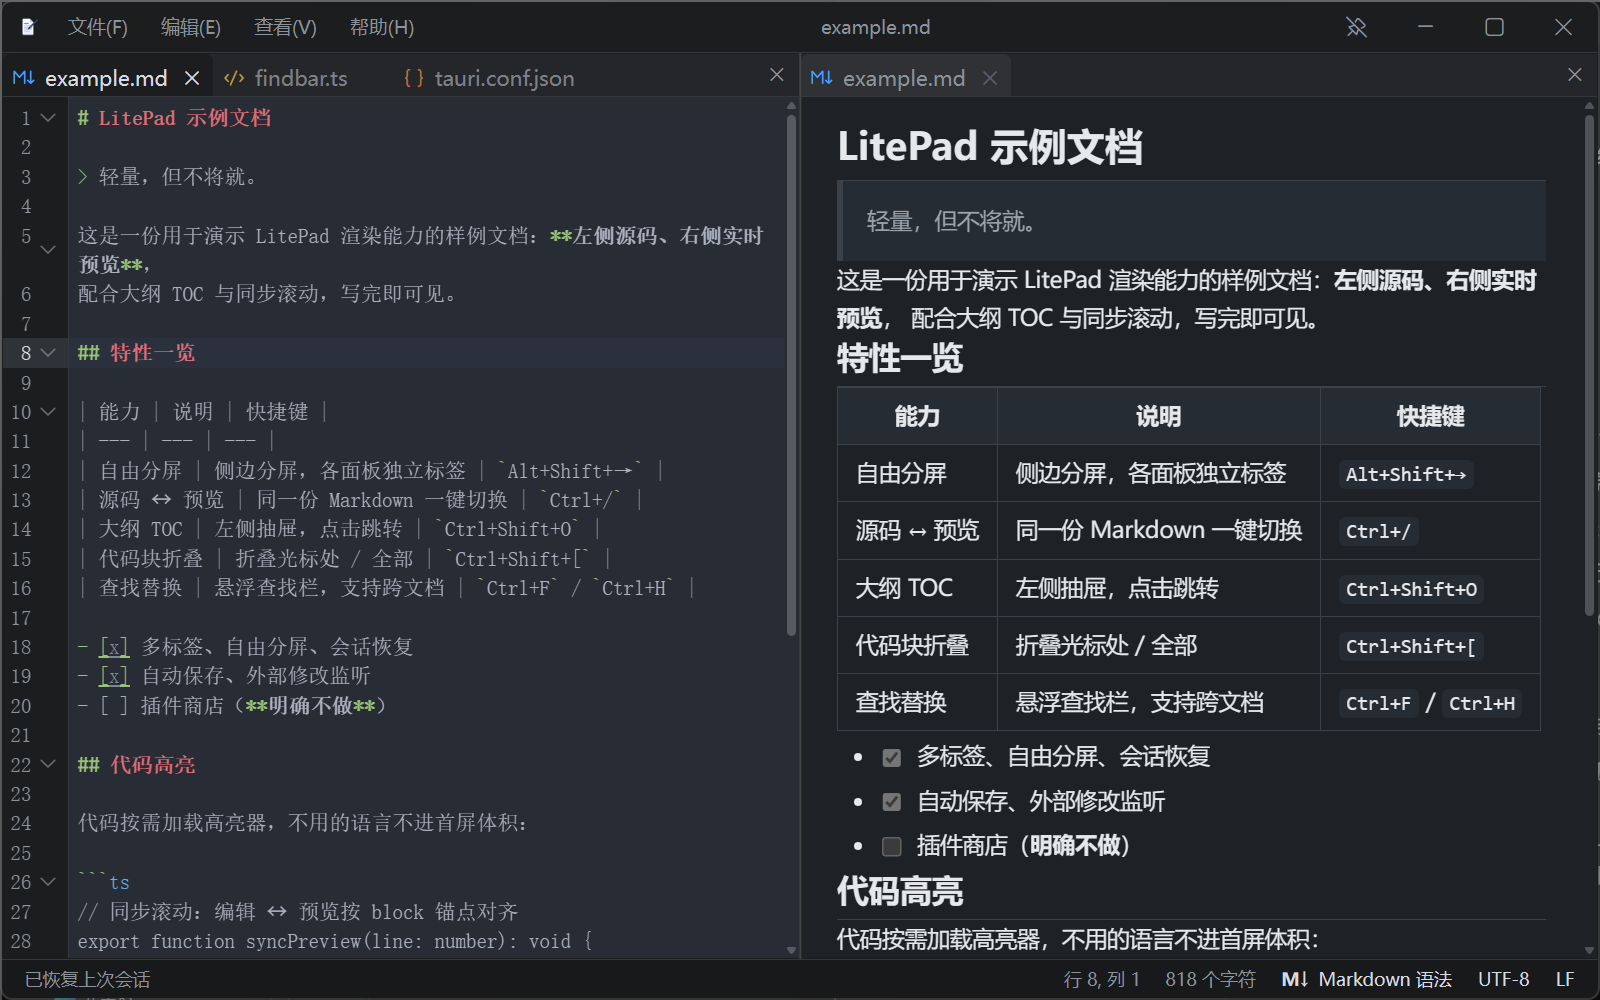
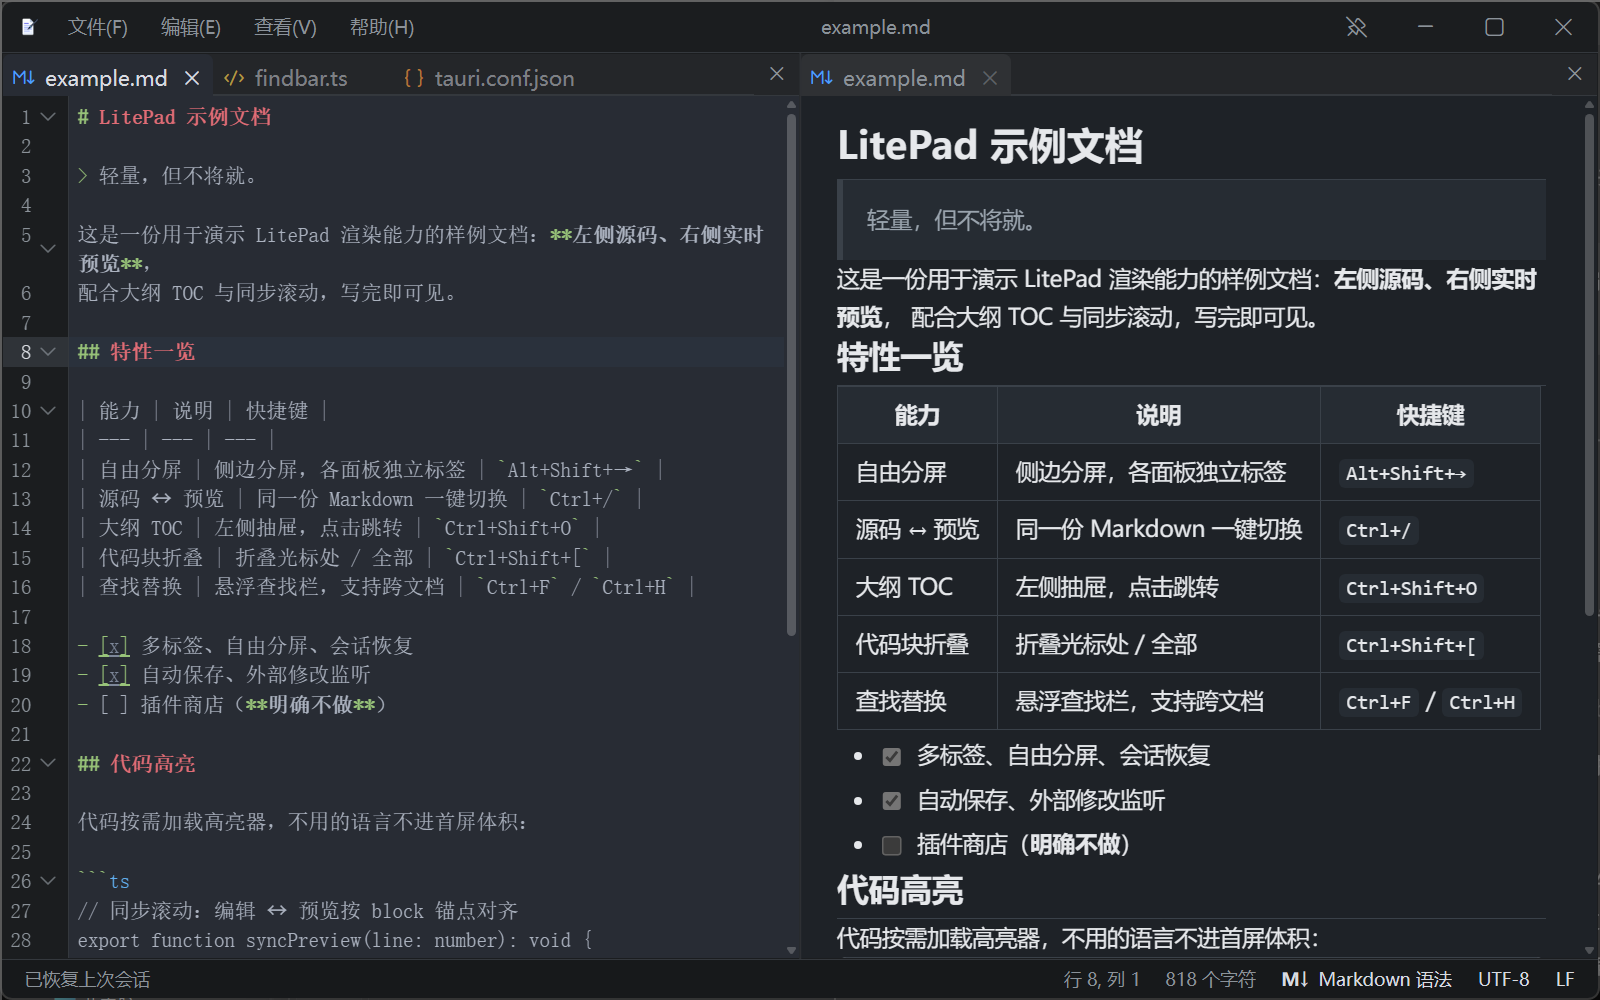
feat(tab): 活动标签与编辑区融为一体，头部细线移入条带、分割线降对比（B121）
- 用户裁决（学习 VS Code 标签/编辑区配色）：活动标签 = 编辑器底色
  （深色 oneDark #282c34，浅色 var(--bg)），且活动标签下方无边框
- 头部细线从 .panel-head 的 border-bottom 移到 .panel-tabstrip 的背景
  渐变（底色 + calc(100%-1px) 处 1px var(--border)）：舌片（子元素）画
  在宿主背景之上，走过后细线自动消失；background-attachment 默认
  scroll，横向滚动时细线固定在可见盒不跟内容跑；.panel-ops 用自身
  border-bottom 补齐右半段；head 高度随之 -1px（细线进入 28px 条带内部）
- 分屏分割线 --sep-line 深色 #444444→#2e3034：1px CSS 在 150% 缩放下
  被抗锯齿糊成 ~2-3 物理像素的粗线是对比度问题，降对比对齐 VS Code
  editorGroup.border 的低调观感（拖拽悬停高亮不受影响，B59）
- 测试：strip 渐变细线契约、head 无 border-bottom、ops border 补齐、
  深色 #282c34、#2e3034；B113-4 替身锚点随 head 去 border 更新

diff --git a/src/styles/global.css b/src/styles/global.css
@@ -25,25 +25,26 @@
   --danger: #f47067;
   --warn: #e2b341;
   /* 标签（B113 起对齐 VS Code 1.139 的 **Connected 相连标签**，不再是独立药丸）：
-     标签条是一条**连续的表面**，活动标签是这条表面上的一块「凹槽」高亮
-     （B120：比条带暗一档，对齐用户 VS Code 的实拍观感），非活动标签透明。
+     标签条是一条**连续的表面**，活动标签取**编辑器底色**、与下方编辑区融为一体
+     （B121 最终形态：舌片同色 + 舌片下方无分割线），非活动标签透明。
      依据 `workbench/contrib/modernUI/browser/media/connectedEditorTabs.css`：
        · 活动标签底色引用编辑器背景（VS Code 语义）；LitePad 取舍见下一条注释
        · --modern-ui-connected-tab-strip-background = editorGroupHeader.tabsBackground
      条带取深 #242629 / 浅 #F3F3F3 那一档。 */
   --tab-strip-bg: #242629;
-  /* 非活动标签：透明（露出条带）；hover 只比条带抬一点点；活动 = 深色凹槽。
+  /* 非活动标签：透明（露出条带）；hover 只比条带抬一点点；活动 = 编辑器底色。
      ⚠ 三档必须拉开可感知的差距 —— hover 若与 active 同色就分不出「选中」和「划过」。
      B119：hover 改用 VS Code connected 的口径（connectedEditorTabs.css:77）
      color-mix(fg 6%, 条带色)——与旧写法 rgba(255,255,255,.05) 观感几乎一致，
      但「混底色」比「叠半透明」确定性强（不依赖下面垫的是什么）。
-     B120（用户裁决）：活动标签要「深色凹槽」观感（同用户 VS Code 的实拍：
-     舌片比条带暗一档、内嵌在条带里）。按 VS Code 的规则「活动=编辑器底色」
-     本应取 oneDark 的 #282c34，但它比条带亮（凸舌观感），与用户要的相反 ——
-     故深色取 --bg（#1b1d1f，比条带暗），浅色仍 var(--bg)（纯白，浅色下无
-     凹槽可挖，白舌片是 B55 以来的观感且用户未提异议）。 */
+     B121（用户裁决，最终形态）：「标签激活时标签和编辑区颜色融为一体」——
+     深色活动标签取 oneDark 的 **#282c34**（editor.ts 挂 oneDark，内容区实际
+     底色就是它），舌片与编辑区同色连成一体；配合条带底部细线被舌片覆盖
+     （见 .panel-tabstrip 的 B121 注释），活动标签下方不再有边框。
+     （B120 曾按用户「深色凹槽」裁决取 var(--bg)，看到融合效果后定为 B121。）
+     浅色下编辑器无 oneDark，底色即 var(--bg) 纯白，同样融为一体。 */
   --tab-bg-hover: color-mix(in srgb, var(--fg) 6%, var(--tab-strip-bg));
-  --tab-bg-active: var(--bg);
+  --tab-bg-active: #282c34;
   --tab-bg-active-hover: #343940;
   /* 标签文件类型图标的家族配色（B57）：十个家族各一色。
      同一族内用同一个色相（形状负责细分），浅深两套取各自的中调，
@@ -104,7 +105,11 @@
   /* 分隔条线色（B59，S5）：从通用 --border 里抽出来单独可调（分屏 .layout-sep 与
      大纲 .toc-resizer 共用，B28 要求两者同款）。深色取 VS Code editorGroup.border
      的 #444444 档 —— 比通用边框略清晰，分屏边界更明确。 */
-  --sep-line: #444444;
+  /* B121：#444444 → #2e3034。宽度本就是 1px CSS，但 150% 缩放下高对比色会被
+     抗锯齿糊成 ~2-3 物理像素的「粗线」；降对比后与两侧面板底色（#282c34 /
+     #1e2227）只差一档，观感对齐 VS Code editorGroup.border（#2b2b2b，几乎
+     隐形，拖拽悬停时另有高亮，B59）。 */
+  --sep-line: #2e3034;
   /* 拖拽落点高亮的填充色（B60 回退为**浅蓝**）：B59 照搬 VS Code 的
      editorGroup.dropBackground（深灰 @0.5 / 浅蓝 @0.18），实测在 LitePad 上落点
      边界几乎看不出来，用户明确要求换回 B59 之前的浅蓝。取 accent @0.22 —— 填充与
@@ -543,9 +548,9 @@ button:focus-visible {
   background: var(--tab-bg-hover);
 }
 
-/* 活动标签：fill 抬到凹槽底色（--tab-bg-active，深浅两套主题都取 var(--bg)，
-   深色下比条带暗一档 = 「深色凹槽」，见主题变量处的 B120 注释），
-   无边框、只有上方两角圆、侧边直线落到条带底。 */
+/* 活动标签：fill 抬到**编辑器底色**（--tab-bg-active：深色 = oneDark 的
+   #282c34，浅色 = var(--bg) 纯白 —— 都与下方编辑区同色），无边框、
+   只有上方两角圆、侧边直线落到条带底。 */
 .tab-active {
   color: var(--fg);
 }
@@ -560,7 +565,7 @@ button:focus-visible {
   initial-value: #0000;
 }
 
-/* B116 去描边 + B120 去肩部：活动标签只靠底色区分 —— fill 取深色凹槽底色、
+/* B116 去描边 + B120 去肩部：活动标签只靠底色区分 —— fill 取编辑器底色、
    只有上方两角圆、侧边直线落到条带底（对齐用户 VS Code 的实拍形态）。 */
 .tab-active .tab-fill {
   --tab-fill-bg: var(--tab-bg-active);
@@ -2230,7 +2235,10 @@ button:focus-visible {
      透出的还是这层旧色 —— 结果「标签条一条色、关闭按钮区另一条色」。
      头部整体跟随条带色，ops 不必再单独声明，将来加邻居也不会再错开。 */
   background: var(--tab-strip-bg);
-  border-bottom: 1px solid var(--border);
+  /* B121：border-bottom 移除 —— 头部与编辑区之间的细线改画进 .panel-tabstrip
+     的背景（见该处 B121 注释）：border 在条带盒外，被 overflow 裁掉的舌片
+     够不着它，「活动标签下方无边框」做不出来；画在条带内部就能被舌片盖住。
+     ops 段没有标签，用自身 border-bottom 补齐同一根线（见 .panel-ops）。 */
 }
 
 .panel-tabstrip {
@@ -2248,8 +2256,17 @@ button:focus-visible {
      右侧 4px 保留给滚动条与末标签的呼吸。 */
   padding: 4px 4px 0 0;
   /* 标签条**表面色**（VS Code 的 editorGroupHeader.tabsBackground）：比编辑器背景差一档，
-     活动标签则取编辑器背景色（见 .tab-active .tab-fill）——「哪块与编辑器连着」一眼可辨。 */
-  background: var(--tab-strip-bg);
+     活动标签则取编辑器背景色（见 .tab-active .tab-fill）——「哪块与编辑器连着」一眼可辨。
+     B121：头尾之间的 1px 分割细线从 .panel-head 的 border-bottom 改为**背景渐变**
+     画在条带自己的最底部 —— ① 舌片（子元素）天然画在宿主背景之上，走过后细线
+     自动消失，「活动标签下方无边框、与编辑区融为一体」；② background-attachment
+     默认 scroll = 固定在条带可见盒上，横向滚动时细线不会跟着内容跑掉；③ 只有
+     gradient 一层，比 ::after 伪元素少一层层叠纠纷。 */
+  background: linear-gradient(
+    to bottom,
+    var(--tab-strip-bg) calc(100% - 1px),
+    var(--border) calc(100% - 1px)
+  );
   min-width: 0;
   /* 拖拽 tab 的插入指示线（.tab-insert）以 strip 为定位基准 */
   position: relative;
@@ -2334,6 +2351,10 @@ button:focus-visible {
   padding: 0 4px;
   /* 不被标签栏挤扁：标签栏滚动，操作按钮恒定可见 */
   flex: 0 0 auto;
+  /* B121：头部细线的 ops 段 —— 条带那半段画在 .panel-tabstrip 背景里
+     （会被舌片盖住），ops 段没有标签、用自身 border-bottom 补齐同一根线。
+     align-items: stretch 下 ops 与条带等高（28px），border-box 内缩不破布局。 */
+  border-bottom: 1px solid var(--border);
 }
 
 /* 面板操作按钮：B54 起只剩「移除分屏」⨯（左右/上下分屏按钮已去掉，

diff --git a/tests/tabstrip.test.ts b/tests/tabstrip.test.ts
@@ -272,15 +272,25 @@ describe("Connected 相连标签（B113，对齐 VS Code 1.139）", () => {
         "--tab-bg-hover: color-mix(in srgb, var(--fg) 6%, var(--tab-strip-bg));",
       );
     }
-    // B120：深浅两套主题的活动标签都取 --bg —— 深色 #1b1d1f 比条带 #242629
-    // 暗一档 = 「深色凹槽」（对齐用户 VS Code 实拍；VS Code 语义的「活动=编辑器
-    // 底色」在 LitePad 会让舌片亮过条带 —— oneDark #282c34，与凹槽观感相反）
-    expect(themeBlock(css, "dark"), "深色活动标签必须是深色凹槽（--bg，暗于条带）").toContain(
-      "--tab-bg-active: var(--bg);",
+    // B121（最终形态）：活动标签 = 编辑器底色，与编辑区融为一体 —— 深色取
+    // oneDark 的 #282c34（editor.ts 挂 oneDark，内容区实际底色），浅色 = var(--bg)。
+    // （B120 曾按「深色凹槽」取 var(--bg)，融合裁决后回正。）
+    expect(themeBlock(css, "dark"), "深色活动标签必须同编辑器底色（oneDark #282c34）").toContain(
+      "--tab-bg-active: #282c34;",
     );
     expect(themeBlock(css, "light"), "浅色活动标签仍取 --bg（纯白）").toContain(
       "--tab-bg-active: var(--bg);",
     );
+    // B121：ops 段用自身 border-bottom 补齐头部细线的右半段
+    const ops = cssDecls(ruleBlock(css, ".panel-ops"));
+    expect(ops, "ops 段必须有 border-bottom 补齐细线（B121）").toContain(
+      "border-bottom: 1px solid var(--border)",
+    );
+    // B121：分屏分割线降对比（150% 下高对比色被抗锯齿糊成粗线）
+    expect(
+      themeBlock(css, "dark"),
+      "深色分割线必须低调（对齐 VS Code editorGroup.border 观感，B121）",
+    ).toContain("--sep-line: #2e3034;");
 
     // B116：闪烁效果整体移除（用户要求）——CSS 与 TS 两侧都不得再有 tab-flash 痕迹
     // （stripCssComments 剥掉说明性注释后断言，避免被「移除记录」误伤）
@@ -313,8 +323,10 @@ describe("Connected 相连标签（B113，对齐 VS Code 1.139）", () => {
     // B113：connected 标签**相连**，不再靠 gap 撑缝（缝会让 fill 接不上，
     // 活动标签与编辑器之间就出现断口）；分隔感改由活动标签的凸起给出。
     expect(strip, "标签必须相连（gap 0），不能留缝隙").toMatch(/gap:\s*0/);
-    expect(strip, "标签条要有表面底色（活动标签取编辑器色，两者差一档才有对比）").toContain(
-      "background: var(--tab-strip-bg)",
+    // B121：条带表面 = 底色 + 最底部 1px 分割细线（背景渐变画法）——
+    // 细线画在条带内部才能被舌片盖住，「活动标签下方无边框」靠它实现
+    expect(strip, "条带表面 = 底色 + 最底部 1px 细线（渐变画法，B121）").toMatch(
+      /background:\s*linear-gradient\(\s*to bottom,\s*var\(--tab-strip-bg\) calc\(100% - 1px\),\s*var\(--border\) calc\(100% - 1px\)\s*\)/,
     );
     expect(
       strip,
@@ -581,12 +593,16 @@ describe("面板头部与标签条同色（B113-4）", () => {
     expect(head, "不得再回退到 --bg-status（那是色差的来源）").not.toContain(
       "background: var(--bg-status)",
     );
-    expect(head, "底边描边保留").toContain("border-bottom: 1px solid var(--border)");
+    // B121：头部不再自带 border-bottom —— 细线移进条带背景（可被舌片盖住），
+    // head 的 border 会在条带下方再画一根盖不掉的线，破坏「活动标签下无边框」
+    expect(head, "头部不得再画 border-bottom（细线已移入条带背景，B121）").not.toContain(
+      "border-bottom",
+    );
 
     // 反向验证：把 head 改回旧色（复刻色差的退化实现），断言必须转红
     const regressed = css.replace(
-      "background: var(--tab-strip-bg);\n  border-bottom: 1px solid var(--border);\n}\n\n.panel-tabstrip",
-      "background: var(--bg-status);\n  border-bottom: 1px solid var(--border);\n}\n\n.panel-tabstrip",
+      "background: var(--tab-strip-bg);",
+      "background: var(--bg-status);",
     );
     expect(regressed, "替身必须真的替换过（否则反向验证空转）").not.toBe(css);
     const bad = cssDecls(ruleBlock(regressed, ".panel-head"));
